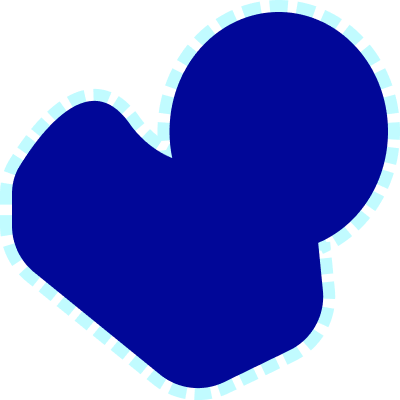
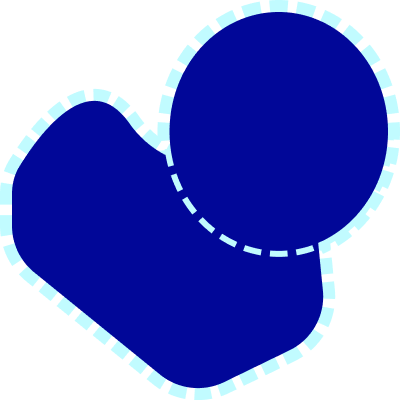
Enable more tooling for multiple layers at the same time

diff --git a/src/lib/components/Sidebar/Sidebar.svelte b/src/lib/components/Sidebar/Sidebar.svelte
@@ -25,7 +25,9 @@
 	export let map: mapboxgl.Map;
 	export let draw: MapboxDraw;
 	export let tools: GeoJSONTool[];
+
 	export let selectedTool: GeoJSONTool | null;
+	$: applyIsDisabled = !selectedTool?.geoProcessor?.validator(selectedLayers, options);
 
 	let fileInput: HTMLInputElement;
 	let files: FileList;
@@ -52,21 +54,21 @@
 	}
 
 	function handleApplyTransformation() {
-		if (!selectedTool?.geoProcessor?.validator(selectedLayers)) {
-			return;
+		let result = selectedTool?.geoProcessor?.processor(selectedLayers, options);
+
+		if (result && !Array.isArray(result)) {
+			result = [result];
 		}
 
-		const result = selectedTool?.geoProcessor?.processor(selectedLayers, options);
-		console.log(result);
-
-		result &&
+		result?.forEach((r) =>
 			addLayerWithTypeCheck(map, {
-				id: selectedTool.name,
+				id: selectedTool!.name,
 				geojson: {
 					type: 'geojson',
-					data: result
+					data: r
 				}
-			});
+			})
+		);
 
 		selectedTool = null;
 		selectedLayers = [];
@@ -184,7 +186,11 @@
 			</Wrapper>
 			<span style="margin-left: auto;">
 				{#if selectedTool}
-					<Button variant="unelevated" on:click={handleApplyTransformation}>
+					<Button
+						variant="unelevated"
+						bind:disabled={applyIsDisabled}
+						on:click={handleApplyTransformation}
+					>
 						<Label>Apply</Label>
 					</Button>
 					<Button variant="outlined" on:click={() => (selectedTool = null)}>
@@ -196,6 +202,10 @@
 							class="material-icons"
 							on:click={() => {
 								selectModeEnabled = !selectModeEnabled;
+								if (!selectModeEnabled) {
+									selectedLayers = [];
+									dispatch('singleLayerSelect', { layer: null });
+								}
 							}}>{selectModeEnabled ? 'check' : 'rule'}</IconButton
 						>
 						<Tooltip>Select layers</Tooltip>

diff --git a/src/lib/components/GeoJsonProcessing/bboxClip.ts b/src/lib/components/GeoJsonProcessing/bboxClip.ts
@@ -88,28 +88,38 @@ function bboxClipProcessor(input: MapLayer<mapboxgl.Layer>[], options?: BBoxClip
 	}
 
 	if (isGeometryCollection(data))
-		return {
-			type: 'GeometryCollection',
-			geometries: data.geometries.flatMap((g) => bboxClipper(g, options)).map((f) => f.geometry)
-		} satisfies GeometryCollection;
+		return [
+			{
+				type: 'GeometryCollection',
+				geometries: data.geometries.flatMap((g) => bboxClipper(g, options)).map((f) => f.geometry)
+			}
+		] satisfies GeometryCollection[];
 
 	if (isFeatureCollection(data)) {
-		console.log('hei');
-		const ya = {
-			type: 'FeatureCollection',
-			features: data.features.flatMap((f) => bboxClipper(f, options))
-		} satisfies FeatureCollection;
-		return ya;
+		return [
+			{
+				type: 'FeatureCollection',
+				features: data.features.flatMap((f) => bboxClipper(f, options))
+			}
+		] satisfies FeatureCollection[];
 	}
 
 	return null;
 }
 
-function bboxClipInputValidator(input: MapLayer<mapboxgl.Layer>[]): boolean {
-	return true;
+function bboxClipInputValidator(
+	input: MapLayer<mapboxgl.Layer>[],
+	options?: BBoxClipOptions
+): boolean {
+	return input.length > 0 && options !== undefined;
 }
 
 export default {
 	processor: bboxClipProcessor,
 	validator: bboxClipInputValidator
-} satisfies GeoJSONProcessor<MapLayer<mapboxgl.Layer>[], GeoJSON, BBoxClipOptions, {}>;
+} satisfies GeoJSONProcessor<
+	MapLayer<mapboxgl.Layer>[],
+	GeoJSON[],
+	BBoxClipOptions,
+	BBoxClipOptions
+>;

diff --git a/src/lib/components/GeoJsonProcessing/dissolve.ts b/src/lib/components/GeoJsonProcessing/dissolve.ts
@@ -9,25 +9,27 @@ import { isFeature, isFeatureCollection, isPolygon } from '$lib/utils/geojson';
 import { isValid } from '../Map/utils';
 
 function dissolveProcessor(input: MapLayer<mapboxgl.Layer>[]) {
-	const data = (input[0].source as GeoJSONSourceRaw).data;
-	if (
-		!isValid(data) ||
-		!isFeatureCollection(data) ||
-		!data.features.every((f) => isPolygon(f.geometry))
-	)
-		return null;
-
-	return dissolve(data as FeatureCollection<Polygon, {}>) as GeoJSON;
+	if (!dissolveInputValidator(input)) return null;
+	// const data = (input[0].source as GeoJSONSourceRaw).data as FeatureCollection<Polygon, {}>;
+	const data = input.map(
+		(i) => (i.source as GeoJSONSourceRaw).data as FeatureCollection<Polygon, {}>
+	);
+	return data.map((d) => dissolve(d));
 }
 
 function dissolveInputValidator(input: MapLayer<mapboxgl.Layer>[]) {
+	if (input.length === 0) return false;
 	return input.every((l) => {
 		const data = (l.source as GeoJSONSourceRaw).data;
-		return isValid(data) && isFeatureCollection(data);
+		return (
+			isValid(data) &&
+			isFeatureCollection(data) &&
+			data.features.every((f) => isPolygon(f.geometry))
+		);
 	});
 }
 
 export default {
 	processor: dissolveProcessor,
 	validator: dissolveInputValidator
-} satisfies GeoJSONProcessor<MapLayer<mapboxgl.Layer>[], GeoJSON, {}, {}>;
+} satisfies GeoJSONProcessor<MapLayer<mapboxgl.Layer>[], GeoJSON[], {}, {}>;

diff --git a/src/lib/components/GeoJsonProcessing/buffer.ts b/src/lib/components/GeoJsonProcessing/buffer.ts
@@ -18,14 +18,14 @@ import type { GeoJSONSourceRaw } from 'mapbox-gl';
 export type BufferOptions = { radius: number; units: Units };
 
 function bufferProcessor(input: MapLayer<mapboxgl.Layer>[], options?: BufferOptions) {
-	const sources = input.map((l) => l.source) as GeoJSONSourceRaw[];
-	const data: any = sources.map((s) => s.data);
-	const buf = buffer(data[0], options?.radius || 1, { units: options?.units || 'kilometers' });
-	return buf;
+	const data = input.map((l) => (l.source as GeoJSONSourceRaw).data as any);
+	return data
+		.map((d) => buffer(d, options?.radius || 1, { units: options?.units || 'kilometers' }))
+		.filter((b) => b !== undefined);
 }
 
 function bufferInputValidator(input: MapLayer<mapboxgl.Layer>[]): boolean {
-	return true;
+	return input.length > 0;
 }
 
 export default {
@@ -33,7 +33,7 @@ export default {
 	validator: bufferInputValidator
 } satisfies GeoJSONProcessor<
 	MapLayer<mapboxgl.Layer>[],
-	FeatureCollection | Feature<Polygon | MultiPolygon> | undefined,
+	(FeatureCollection | Feature<Polygon | MultiPolygon>)[],
 	{ radius: number; units: Units },
 	{}
 >;

diff --git a/src/lib/components/GeoJsonProcessing/types.ts b/src/lib/components/GeoJsonProcessing/types.ts
@@ -14,7 +14,7 @@ export const toolNamesArray = [
 ] as const;
 export type ToolName = (typeof toolNamesArray)[number];
 
-export type Tool<Input extends MapLayer<mapboxgl.Layer>[], Output extends GeoJSON | null> = {
+export type Tool<Input extends MapLayer<mapboxgl.Layer>[], Output extends GeoJSON[] | null> = {
 	name: ToolName;
 	iconPath: string;
 	geoProcessor?: GeoJSONProcessor<Input, Output, any, any>;
@@ -26,11 +26,11 @@ export type Tool<Input extends MapLayer<mapboxgl.Layer>[], Output extends GeoJSO
 	onSelected?: () => void;
 };
 
-export type GeoJSONTool = Tool<any, GeoJSON | null>;
+export type GeoJSONTool = Tool<any, GeoJSON[] | null>;
 
 export type GeoJSONProcessor<
-	Input, // extends MapLayer<mapboxgl.Layer>[],
-	Output,
+	Input extends MapLayer<mapboxgl.Layer>[],
+	Output extends GeoJSON[] | null,
 	ProcessorArgs extends Record<string, any>,
 	ValidatorArgs extends Record<string, any>
 > = {

diff --git a/src/lib/components/GeoJsonProcessing/voronoi.ts b/src/lib/components/GeoJsonProcessing/voronoi.ts
@@ -66,10 +66,12 @@ function voronoiProcessor(input: MapLayer<mapboxgl.Layer>[], options?: VoronoiOp
 
 	voronoiFC.features = voronoiFC.features.filter((f) => f !== undefined);
 
-	return voronoiFC;
+	return [voronoiFC];
 }
 
 function voronoiInputValidator(input: MapLayer<mapboxgl.Layer>[]): boolean {
+	if (input.length === 0) return false;
+
 	const data = (input[0].source as GeoJSONSourceRaw).data;
 
 	if (!data || !isGeoJSON(data)) {
@@ -82,4 +84,4 @@ function voronoiInputValidator(input: MapLayer<mapboxgl.Layer>[]): boolean {
 export default {
 	processor: voronoiProcessor,
 	validator: voronoiInputValidator
-} satisfies GeoJSONProcessor<MapLayer<mapboxgl.Layer>[], GeoJSON, VoronoiOptions, {}>;
+} satisfies GeoJSONProcessor<MapLayer<mapboxgl.Layer>[], GeoJSON[], VoronoiOptions, {}>;

diff --git a/src/lib/components/GeoJsonProcessing/difference.ts b/src/lib/components/GeoJsonProcessing/difference.ts
@@ -38,8 +38,7 @@ function differenceProcessor(input: MapLayer<mapboxgl.Layer>[]) {
 		}
 	});
 
-	const res = difference(poly1 as any, poly2 as any);
-	return res as GeoJSON;
+	return [difference(poly1 as any, poly2 as any)].filter((d) => d !== null) as GeoJSON[];
 }
 
 function differenceInputValidator(input: MapLayer<mapboxgl.Layer>[]): boolean {
@@ -51,4 +50,4 @@ function differenceInputValidator(input: MapLayer<mapboxgl.Layer>[]): boolean {
 export default {
 	processor: differenceProcessor,
 	validator: differenceInputValidator
-} satisfies GeoJSONProcessor<MapLayer<mapboxgl.Layer>[], GeoJSON, DifferenceOptions, {}>;
+} satisfies GeoJSONProcessor<MapLayer<mapboxgl.Layer>[], GeoJSON[], DifferenceOptions, {}>;

diff --git a/src/lib/components/GeoJsonProcessing/intersect.ts b/src/lib/components/GeoJsonProcessing/intersect.ts
@@ -24,13 +24,11 @@ function intersectProcessor(input: MapLayer<mapboxgl.Layer>[]) {
 	});
 
 	const intersection = intersect(poly1 as any, poly2 as any);
-	return intersection as GeoJSON;
+	return [intersection] as GeoJSON[];
 }
 
 function intersectInputValidator(input: MapLayer<mapboxgl.Layer>[]): boolean {
-	if (input.length !== 2) throw new Error('Exactly two polygon layers required');
-
-	return true;
+	return input.length === 2;
 }
 
 export default {
@@ -40,7 +38,7 @@ export default {
 	// { poly1: MapLayer<mapboxgl.Layer>; poly2: MapLayer<mapboxgl.Layer> },
 	MapLayer<mapboxgl.Layer>[],
 	// Feature<Polygon | MultiPolygon, any> | null,
-	GeoJSON,
+	GeoJSON[],
 	{},
 	{}
 >;

diff --git a/src/lib/components/GeoJsonProcessing/union.ts b/src/lib/components/GeoJsonProcessing/union.ts
@@ -23,16 +23,14 @@ function unionProcessor(input: MapLayer<mapboxgl.Layer>[]) {
 		}
 	});
 
-	return union(poly1 as any, poly2 as any) as GeoJSON;
+	return [union(poly1 as any, poly2 as any)].filter((u) => u !== null) as GeoJSON[];
 }
 
 function unionInputValidator(input: MapLayer<mapboxgl.Layer>[]): boolean {
-	if (input.length !== 2) throw new Error('Exactly two polygon layers required');
-
-	return true;
+	return input.length === 2;
 }
 
 export default {
 	processor: unionProcessor,
 	validator: unionInputValidator
-} satisfies GeoJSONProcessor<MapLayer<mapboxgl.Layer>[], GeoJSON, {}, {}>;
+} satisfies GeoJSONProcessor<MapLayer<mapboxgl.Layer>[], GeoJSON[], {}, {}>;

diff --git a/src/lib/components/Map/Map.svelte b/src/lib/components/Map/Map.svelte
@@ -250,7 +250,7 @@
 			},
 			{
 				name: 'voronoi',
-				iconPath: 'button-icons/vornoi.png',
+				iconPath: 'button-icons/voronoi.png',
 				geoProcessor: VoronoiProcessor,
 				tooltip:
 					'Takes a FeatureCollection of points, and an optional bounding box, and returns a FeatureCollection of Voronoi polygons.',
@@ -261,7 +261,7 @@
 			},
 			{
 				name: 'dissolve',
-				iconPath: 'button-icons/union.png',
+				iconPath: 'button-icons/dissolve.png',
 				geoProcessor: DissolveProcessor,
 				tooltip:
 					'Dissolves a FeatureCollection of polygon features, filtered by an optional property name. Like a union reduction on a single FeatureCollection.'

diff --git a/src/lib/components/GeoJsonProcessing/bbox.ts b/src/lib/components/GeoJsonProcessing/bbox.ts
@@ -16,10 +16,11 @@ function bboxProcessor(input: MapLayer<mapboxgl.Layer>[]) {
 	}
 
 	const bboxCoords = bbox(data);
-	return bboxPolygon(bboxCoords);
+	return [bboxPolygon(bboxCoords)];
 }
 
 function intersectInputValidator(input: MapLayer<mapboxgl.Layer>[]): boolean {
+	if (input.length === 0) return false;
 	const data = (input[0].source as GeoJSONSourceRaw).data;
 
 	if (!data || !isGeoJSON(data)) {
